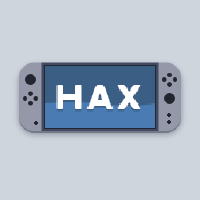
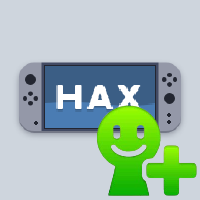
start ouncebrew community repo

Changed region(s): [[0.48, 0.51, 0.99, 0.99]]

diff --git a/README.md b/README.md
@@ -1,10 +1,19 @@
-# repo
-Ouncebrew repository for hpak.
+# community
+## Piracy is not supported!!
+Ouncebrew community repository for hpak.
 
-This repository is primarily not open to contributions, and only contains select apps and packages. Thus, please do not PR without contacting a member of ouncebrew first.
+Unlike the regular ouncebrew repository, this repository is open for contributions!!
 
-Apps that *may* be accepted include:
-Libraries (Say SDL or Mesa)
-Basic utilities (File managers, save tools)
-Basic apps
-Some games/fun if deemed appropriate
+
+Please ensure that your contributions are not used to create or work with commercial game dumps for legal reasons.
+To submit an app onto this repository, you can simply create a pull request.
+
+
+To categorize your submissions, please use these category names verbatim:
+ - "Fun"
+ - "Tools"
+ - "Games"
+ - "Apps"
+ - "Customization"
+ - "Library"
+ - "Miscellaneous"
